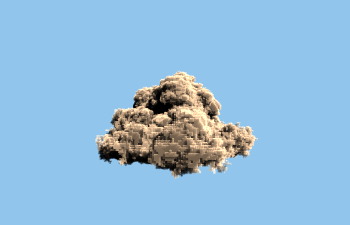
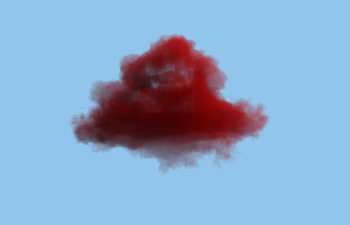
update

Changed region(s): [[0.2, 0.1556, 0.7714, 0.8089]]

diff --git a/src/hittable/grid.rs b/src/hittable/grid.rs
@@ -3,6 +3,8 @@ use crate::interval::Interval;
 use crate::ray::Ray;
 use glam::Vec3;
 use half::f16;
+use crate::util::cos_between;
+use std::f32::consts::PI;
 use vdb_rs::Grid;
 
 pub struct VolumeGrid {
@@ -11,6 +13,9 @@ pub struct VolumeGrid {
     shift: Vec3,
     light_dir: Vec3,
     light_col: Vec3,
+    absorption: f32,
+    scattering: f32,
+    g: f32,
 }
 
 impl VolumeGrid {
@@ -45,8 +50,18 @@ impl VolumeGrid {
             weights,
             shift,
             light_dir: Vec3::ONE,
-            light_col: Vec3::new(0.9, 0.75, 0.6),
+            light_col: Vec3::new(3.0, 0.0, 0.0),
+            absorption: 0.1,
+            scattering: 0.8,
+            g: 0.6,
         }
+    }
+
+    // the Henyey-Greenstein phase function
+    fn phase(&self, cos_theta: f32) -> f32 {
+        let g = self.g;
+        let denom = 1f32 + g * g - 2f32 * g * cos_theta;
+        1f32 / (4f32 * PI) * (1f32 - g * g) / (denom * denom.sqrt())
     }
     fn get_weight(&self, pos: Vec3) -> Option<f32> {
         let indexes = pos + self.shift;
@@ -75,15 +90,17 @@ impl VolumeGrid {
                 }
                 let t = t1.min(t0 + step_size * (n as f32 + 0.5));
                 let sample_pos = ray.at(t);
-                if let Some(sample_weight) = self.get_weight(sample_pos) {
-                    let sample_transparency = (-step_size * sample_weight).exp();
+                //if (sample_pos).length_squared() <= 100f32 {
+                if let Some(sample_density) = self.get_weight(sample_pos) {
+                    let sample_transparency = (-step_size * sample_density * (self.scattering * self.absorption)).exp();
                     transparency *= sample_transparency;
 
                     if let Some(rec) =
                         self.get_color(&Ray::new(sample_pos, self.light_dir), depth - 1)
                     {
                         let light_attenuation = rec.transparency;
-                        result += transparency * self.light_col * light_attenuation * step_size;
+                        let cos_theta = cos_between(&ray.direction, &self.light_dir);
+                        result += transparency * self.light_col * light_attenuation * step_size * sample_density * self.phase(cos_theta) * self.scattering;
                     }
                 }
             }

diff --git a/src/main.rs b/src/main.rs
@@ -27,15 +27,15 @@ fn get_view_positions_from_to(descriptor: &GridDescriptor, vfov: f32) -> (Vec3,V
     (camera_pos, center)
 }
 
-fn load_vdb_grid_from_args() -> Grid<half::f16>{
-    let filename = std::env::args()
-        .nth(1)
-        .expect("Missing VDB filename as first argument");
-
-    let mut vdb_reader = VdbReader::new(BufReader::new(File::open(filename).unwrap())).unwrap();
-    let grid_to_load = vdb_reader.available_grids().first().cloned().unwrap_or(String::new());
-    vdb_reader.read_grid::<half::f16>(&grid_to_load).unwrap()
-}
+    fn load_vdb_grid_from_args() -> Grid<half::f16>{
+        let filename = std::env::args()
+            .nth(1)
+            .expect("Missing VDB filename as first argument");
+    
+        let mut vdb_reader = VdbReader::new(BufReader::new(File::open(filename).unwrap())).unwrap();
+        let grid_to_load = vdb_reader.available_grids().first().cloned().unwrap_or(String::new());
+        vdb_reader.read_grid::<half::f16>(&grid_to_load).unwrap()
+    }
 
 
 
@@ -47,8 +47,9 @@ fn main() {
 
 
     let grid_vdb = load_vdb_grid_from_args();
-    let (camera_pos, target_pos) = get_view_positions_from_to(&grid_vdb.descriptor, VFOV);
+//    let (camera_pos, target_pos) = get_view_positions_from_to(&grid_vdb.descriptor, VFOV);
 
+    let (camera_pos, target_pos) = (Vec3::new(0.0,0.0,100.0), Vec3::ZERO);
     let grid = VolumeGrid::build_from_vdb_grid(grid_vdb, 0.5);
 
     let camera = Camera::new(camera_pos, target_pos, Vec3::Y, VFOV, ASPECT);

diff --git a/src/util.rs b/src/util.rs
@@ -21,3 +21,7 @@ pub fn rand_in_square() -> Vec2 {
     let mut rng = rand::thread_rng();
     Vec2::new(rng.random(), rng.random())
 }
+
+pub fn cos_between(a: &Vec3, b: &Vec3) -> f32 {
+    a.dot(*b) / a.length() / b.length()
+}
